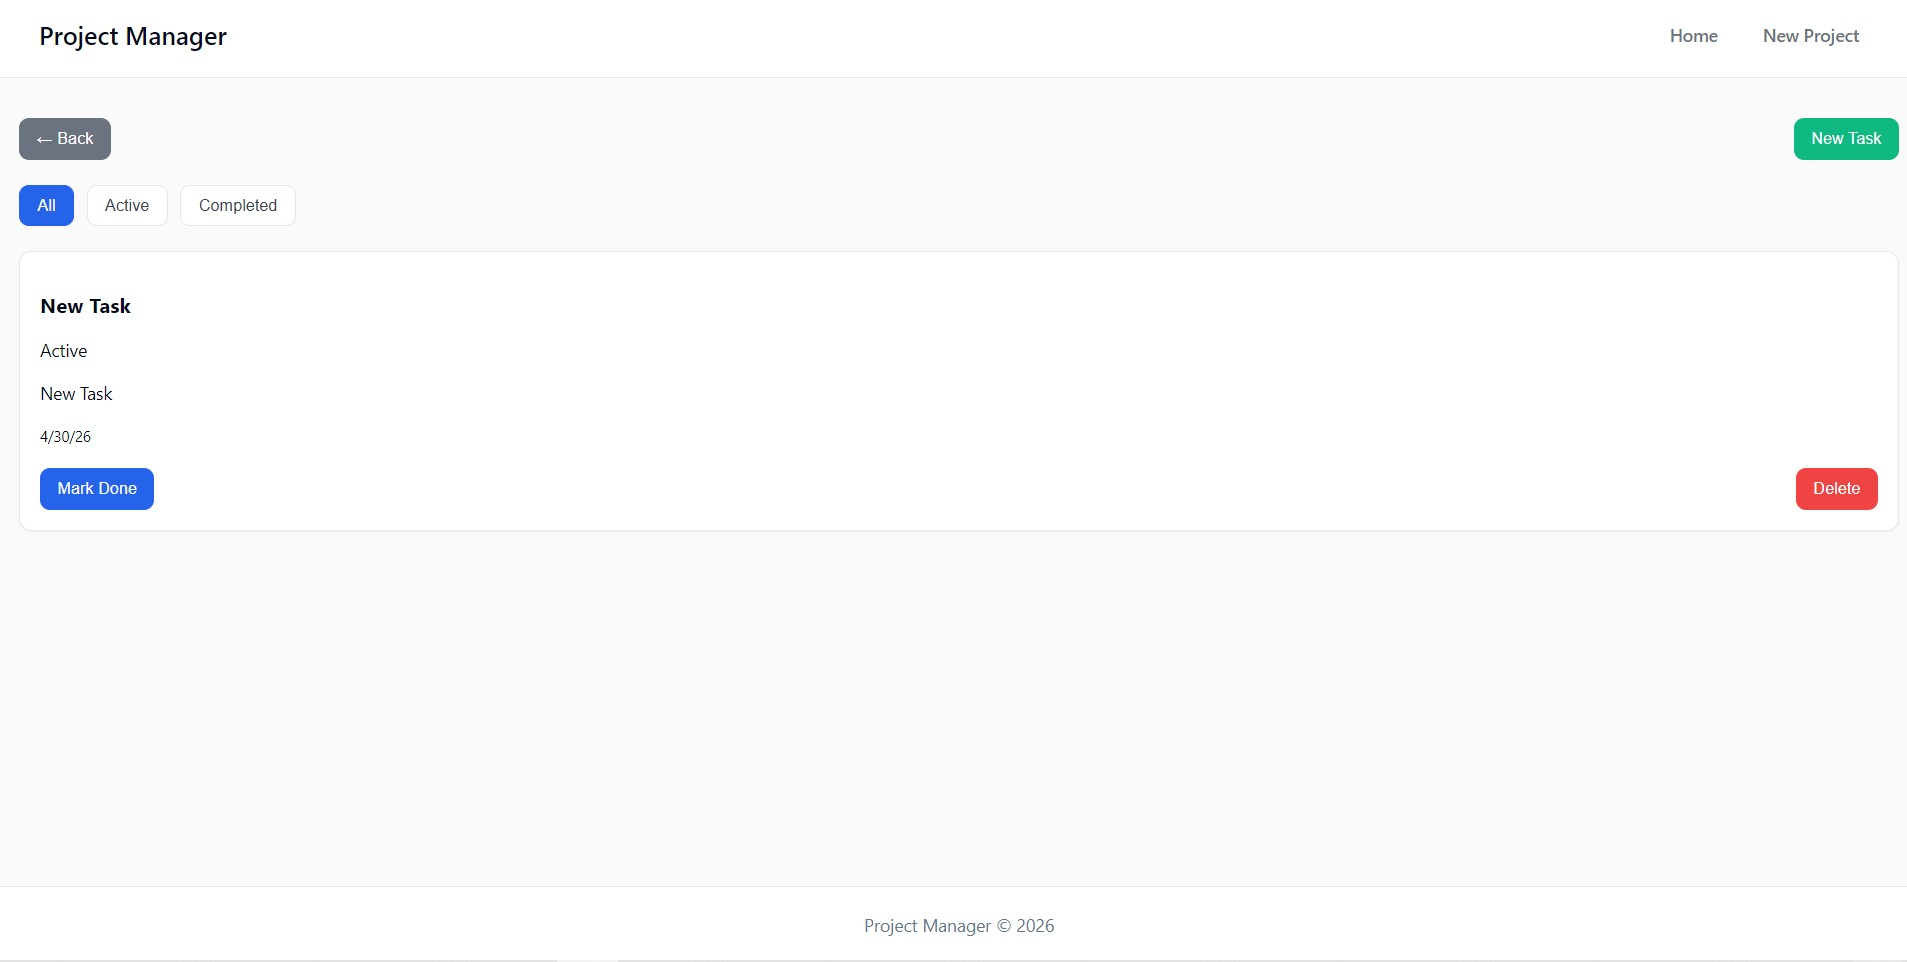
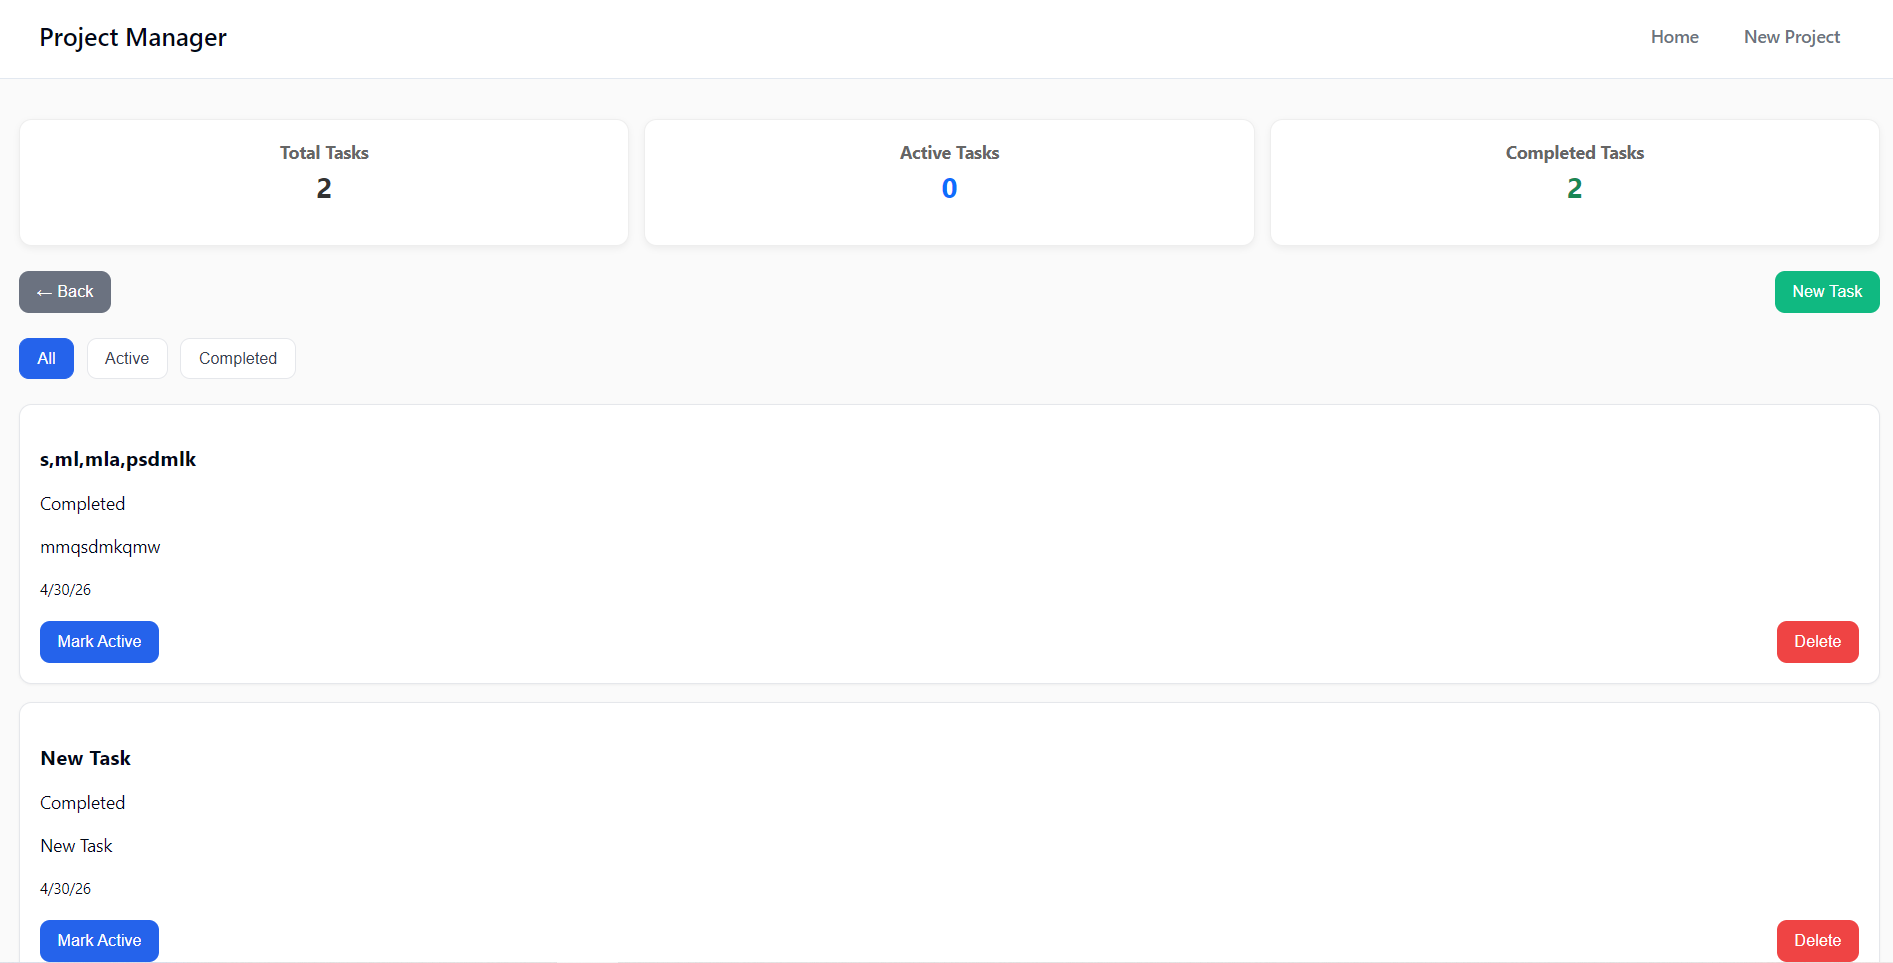
Adding statistics to tasks

diff --git a/frontend/projectmangment/src/app/view/components/edit-project/edit-project.html b/frontend/projectmangment/src/app/view/components/edit-project/edit-project.html
@@ -1,44 +1,49 @@
 <div class="form-container">
 
-  <h2>Edit Project</h2>
-
-  @if(loading()) {
-    <p>Loading...</p>
-  } @else {
+  <h2>{{textProject.EDIT}}</h2>
 
     <form [formGroup]="form" (ngSubmit)="onSubmit()">
 
       <div class="form-group">
-        <label>Project Name</label>
-        <input type="text" formControlName="name">
+        <label>{{textProject.TITLE_FORM_NAME}}</label>
+        <input type="text" formControlName="name" placeholder="{{textProject.PLACEHOLDER_NAME}}">
+        @if (form.controls.name.invalid && form.controls.name.touched) {
+      <div class="error">
+        @if (form.controls.name.errors?.['required']) {
+        <small>{{textProject.WERRNING_REQUIRED}}</small>
+        } @if (form.controls.name.errors?.['minlength']) {
+        <small>{{textComman.WERRNING_minlength}}</small>
+        }
+      </div>
+      }
       </div>
 
       <div class="form-group">
-        <label>Description</label>
-        <textarea formControlName="description"></textarea>
+        <label>{{textProject.TITLE_FORM_DESCRIPTION}}</label>
+        <textarea formControlName="description" placeholder="{{textProject.PLACEHOLDER_DESCRIPTION}}"></textarea>
+        @if (form.controls.description.invalid && form.controls.description.touched) {
+      <div class="error">
+        <small>{{textComman.WERRNING_REQUIRED}}</small>
+      </div>
+      }
       </div>
 
       <div class="button-group">
         <button 
             type="submit" 
             class="save-btn"
-            [disabled]="form.invalid || loading()">
-
-            @if(loading()) {
-                Saving...
-            } @else {
-                Update
-            }
+            [disabled]="form.invalid">
+            {{textComman.SAVE}}
 
             </button>
 
         <button type="button" routerLink="/" class="cancel-btn">
-          Cancel
+          {{textComman.CANCEL}}
         </button>
       </div>
 
     </form>
 
-  }
+  
 
 </div>

diff --git a/frontend/projectmangment/src/app/view/task/task-view/task-view.css b/frontend/projectmangment/src/app/view/task/task-view/task-view.css
@@ -223,3 +223,36 @@ button:hover {
     justify-content: center;
   }
 }
+.stats {
+  display: flex;
+  gap: 12px;
+  margin-bottom: 20px;
+  flex-wrap: wrap;
+}
+
+.card {
+  flex: 1;
+  min-width: 150px;
+  padding: 15px;
+  border-radius: 10px;
+  background: #fff;
+  border: 1px solid #eee;
+  text-align: center;
+  box-shadow: 0 2px 5px rgba(0,0,0,0.05);
+}
+
+.card h3 {
+  margin: 0;
+  font-size: 14px;
+  color: #666;
+}
+
+.card p {
+  font-size: 22px;
+  font-weight: bold;
+  margin-top: 8px;
+}
+
+.active p { color: #0d6efd; }
+.completed p { color: #198754; }
+.total p { color: #333; }

diff --git a/frontend/projectmangment/src/app/view/task/task-view/task-view.html b/frontend/projectmangment/src/app/view/task/task-view/task-view.html
@@ -1,6 +1,22 @@
 <div class="task-container">
+ <div class="stats">
 
-  <!-- 🔹 Header + Add Button -->
+  <div class="card total">
+    <h3>Total Tasks</h3>
+    <p>{{ taskService.totalTasks() }}</p>
+  </div>
+
+  <div class="card active">
+    <h3>Active Tasks</h3>
+    <p>{{ taskService.activeTasksCount() }}</p>
+  </div>
+
+  <div class="card completed">
+    <h3>Completed Tasks</h3>
+    <p>{{ taskService.completedTasksCount() }}</p>
+  </div>
+
+</div>
  <div class="top-bar">
   <button class="back-btn" routerLink="/">
     {{textComman.BACK}}
@@ -11,14 +27,12 @@
 </button>
 </div> 
 
-  <!-- 🔹 Filters -->
   <div class="filters">
   <button [class.active]="filter() === 'all'" (click)="setFilter('all')">{{textTask.Filter_All}}</button>
   <button [class.active]="filter() === 'active'" (click)="setFilter('active')">{{textTask.Filter_Active}}</button>
   <button [class.active]="filter() === 'completed'" (click)="setFilter('completed')">{{textTask.Filter_Completed}}</button>
 </div>
 
-  <!-- 🔹 Tasks List -->
   @if(filteredTasks().length > 0) {
 
     @for(task of filteredTasks(); track task.id) {
@@ -39,7 +53,6 @@
           {{ task.createdAt | date:'shortDate' }}
         </small>
 
-        <!-- 🔹 Actions -->
         <div class="actions">
 
           <button class="toggle-btn" (click)="toggleStatus(task)">

diff --git a/frontend/projectmangment/src/app/services/task/task-service.ts b/frontend/projectmangment/src/app/services/task/task-service.ts
@@ -65,4 +65,18 @@ export class TaskService {
     getTask(id: number) {
       return this.tasksSignal().find(task => task.id === id);
     }
+
+    totalTasks = computed(() =>
+      this.tasksSignal().length
+    );
+
+    completedTasksCount = computed(() =>
+      this.tasksSignal().filter(t => t.completed).length
+    );
+
+    activeTasksCount = computed(() =>
+      this.tasksSignal().filter(t => !t.completed).length
+    );
+
+    
 }

diff --git a/frontend/projectmangment/src/app/view/components/edit-project/edit-project.ts b/frontend/projectmangment/src/app/view/components/edit-project/edit-project.ts
@@ -3,6 +3,8 @@ import { FormBuilder, ReactiveFormsModule, Validators } from '@angular/forms';
 import { ActivatedRoute, Router, RouterLink } from '@angular/router';
 import { ProjectService } from '../../../services/project/project-service';
 import { MatSnackBar, MatSnackBarModule } from '@angular/material/snack-bar';
+import { TEXTSPROJECT } from '../../../constants/texts-project';
+import { TEXTSCOMMAN } from '../../../constants/text-common';
 
 @Component({
   selector: 'app-edit-project',
@@ -16,9 +18,10 @@ export class EditProject implements OnInit {
   private route = inject(ActivatedRoute);
   private router = inject(Router);
   private projectService = inject(ProjectService);
+  textProject = TEXTSPROJECT;
+  textComman = TEXTSCOMMAN;
 
   projectId = signal<number>(0);
-  loading = signal<boolean>(false);
 
   form = this.fb.group({
     name: ['', [Validators.required, Validators.minLength(3)]],
@@ -37,7 +40,6 @@ export class EditProject implements OnInit {
   }
 
   loadProject(id: number) {
-    this.loading.set(true);
 
     this.projectService.getProjectById(id).subscribe({
       next: (res: any) => {
@@ -45,10 +47,8 @@ export class EditProject implements OnInit {
           name: res.name,
           description: res.description
         });
-        this.loading.set(false);
       },
       error: () => {
-        this.loading.set(false);
         this.router.navigate(['/']);
       }
     });
@@ -57,7 +57,6 @@ export class EditProject implements OnInit {
   onSubmit() {
   if (this.form.invalid) return;
 
-  this.loading.set(true);
 
   const { name, description } = this.form.value;
 
@@ -73,12 +72,10 @@ export class EditProject implements OnInit {
         panelClass: ['snackbar-success']
       });
 
-      this.loading.set(false);
       this.router.navigate(['/']);
     },
 
     error: () => {
-      this.loading.set(false);
 
       this.snackBar.open('Something went wrong ❌', 'Close', {
         duration: 3000,

diff --git a/frontend/projectmangment/src/app/constants/texts-project.ts b/frontend/projectmangment/src/app/constants/texts-project.ts
@@ -2,7 +2,7 @@ export const TEXTSPROJECT = {
     
     TITLE:'', 
     ADD:  '',
-    EDIT: '',
+    EDIT: 'Edit Project',
     TITLE_ADD :'Add New Project',
     TITLE_FORM_NAME :'Project Name',
     TITLE_FORM_DESCRIPTION :'Description',
@@ -11,5 +11,6 @@ export const TEXTSPROJECT = {
     CANCEL:'',
     found:'No project found. Add one to get started!' , 
     WERRNING_REQUIRED:'Name is required',
+
     
 }